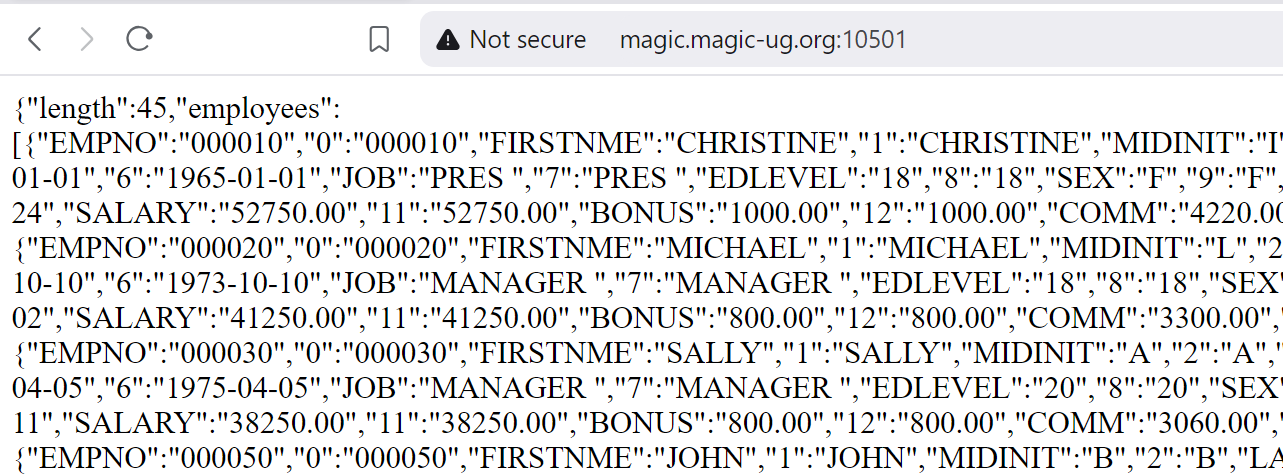
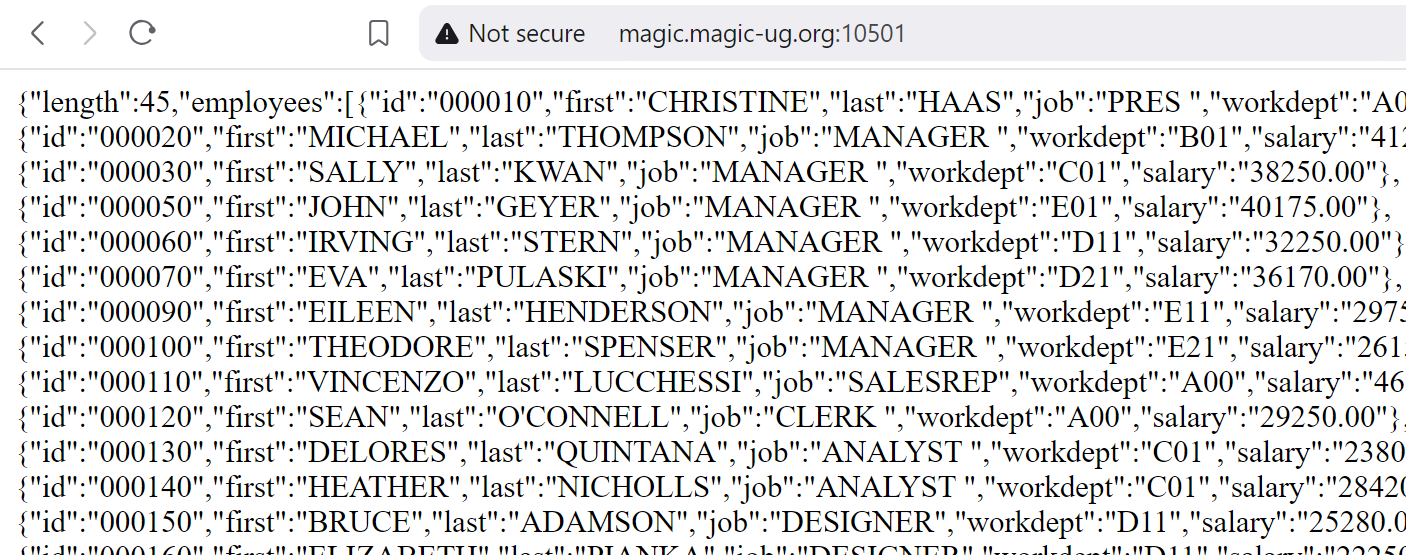
Fix employee field names

diff --git a/5_Employees/README.md b/5_Employees/README.md
@@ -14,7 +14,7 @@ try {
     $sql = "select * from SAMPLE.EMPLOYEE";
     $query = $dbConn->prepare($sql);
     $query->execute(); 
-    $rows = $query->fetchAll();
+    $rows = $query->fetchAll(PDO::FETCH_ASSOC);
     print_r($rows); 
 } catch (PDOException $exception) {
     echo $exception->getMessage();
@@ -25,7 +25,7 @@ After we get our database connection we are going to build an SQL statement and 
 We build the SQL statement `$sql = "select * from SAMPLE.EMPLOYEE";`   
 Prepare the SQL statement `$query = $dbConn->prepare($sql);`   
 Execute the SQL statement `$query->execute();`   
-And then fetch the results `$rows = $query->fetchAll();`    
+And then fetch the results as an associative array (using field names) `$rows = $query->fetchAll(PDO::FETCH_ASSOC);`   
 The results in the variable `$rows` will be a PHP array.  
 
 <br>➡ Open your browser and go to `http://magic.magic-ug.org:{your_port}`  
@@ -58,7 +58,7 @@ function get_all_employees() {
         $sql = "select * from SAMPLE.EMPLOYEE";
         $query = $dbConn->prepare($sql);
         $query->execute(); 
-        $rows = $query->fetchAll();
+        $rows = $query->fetchAll(PDO::FETCH_ASSOC);
         return $rows; 
     } catch (PDOException $exception) {
         echo $exception->getMessage();
@@ -95,8 +95,9 @@ You should see something like this:
 This is the same employee data, now formatted as JSON.
 
 
-## Return object
-If we look at the OpenAPI specification, it tells us that the the return value for /employees should be a JSON object that looks like this:  
+## Matching the spec
+
+If we look at the OpenAPI specification, it tells us that the the return value for the /employees route should be a JSON object that looks like this:  
 ```
 {
   "length": 0,
@@ -113,7 +114,43 @@ If we look at the OpenAPI specification, it tells us that the the return value f
 }
 ```
 
-We have the employees array, and just need to add the length.  
+First thing we want to do is match the names for the employee object; we currently have the system field names (i.e. "EMPNO").
+
+
+<br>➡ Update `employee.php` so that it looks like this:
+```
+<?php
+
+function get_all_employees() {
+    $dbConn = get_db_conn();
+
+    try {
+        $sql = <<<SQL
+            select 
+                empno as "id",
+                firstnme as "first",
+                lastname as "last",
+                job as "job",
+                workdept as "workdept",
+                salary as "salary"
+            from SAMPLE.EMPLOYEE
+        SQL;
+        $query = $dbConn->prepare($sql);
+        $query->execute(); 
+        $rows = $query->fetchAll(PDO::FETCH_ASSOC);
+        return $rows; 
+    } catch (PDOException $exception) {
+        echo $exception->getMessage();
+        return NULL;
+    } 
+}
+```
+The only thing we have changed is the value of the `$sql` variable and how we set it (using what's called a heredoc).  
+This will give us the field names that we want (i.e. "id").  Keep in mind that JSON is case-sensitive, so "ID" is not the same as "id".  
+
+
+## Return object
+We have the employees array and the proper field names so we just need to add the length.  
 
 
 <br>➡ Update `index.php` so that it looks like this:
